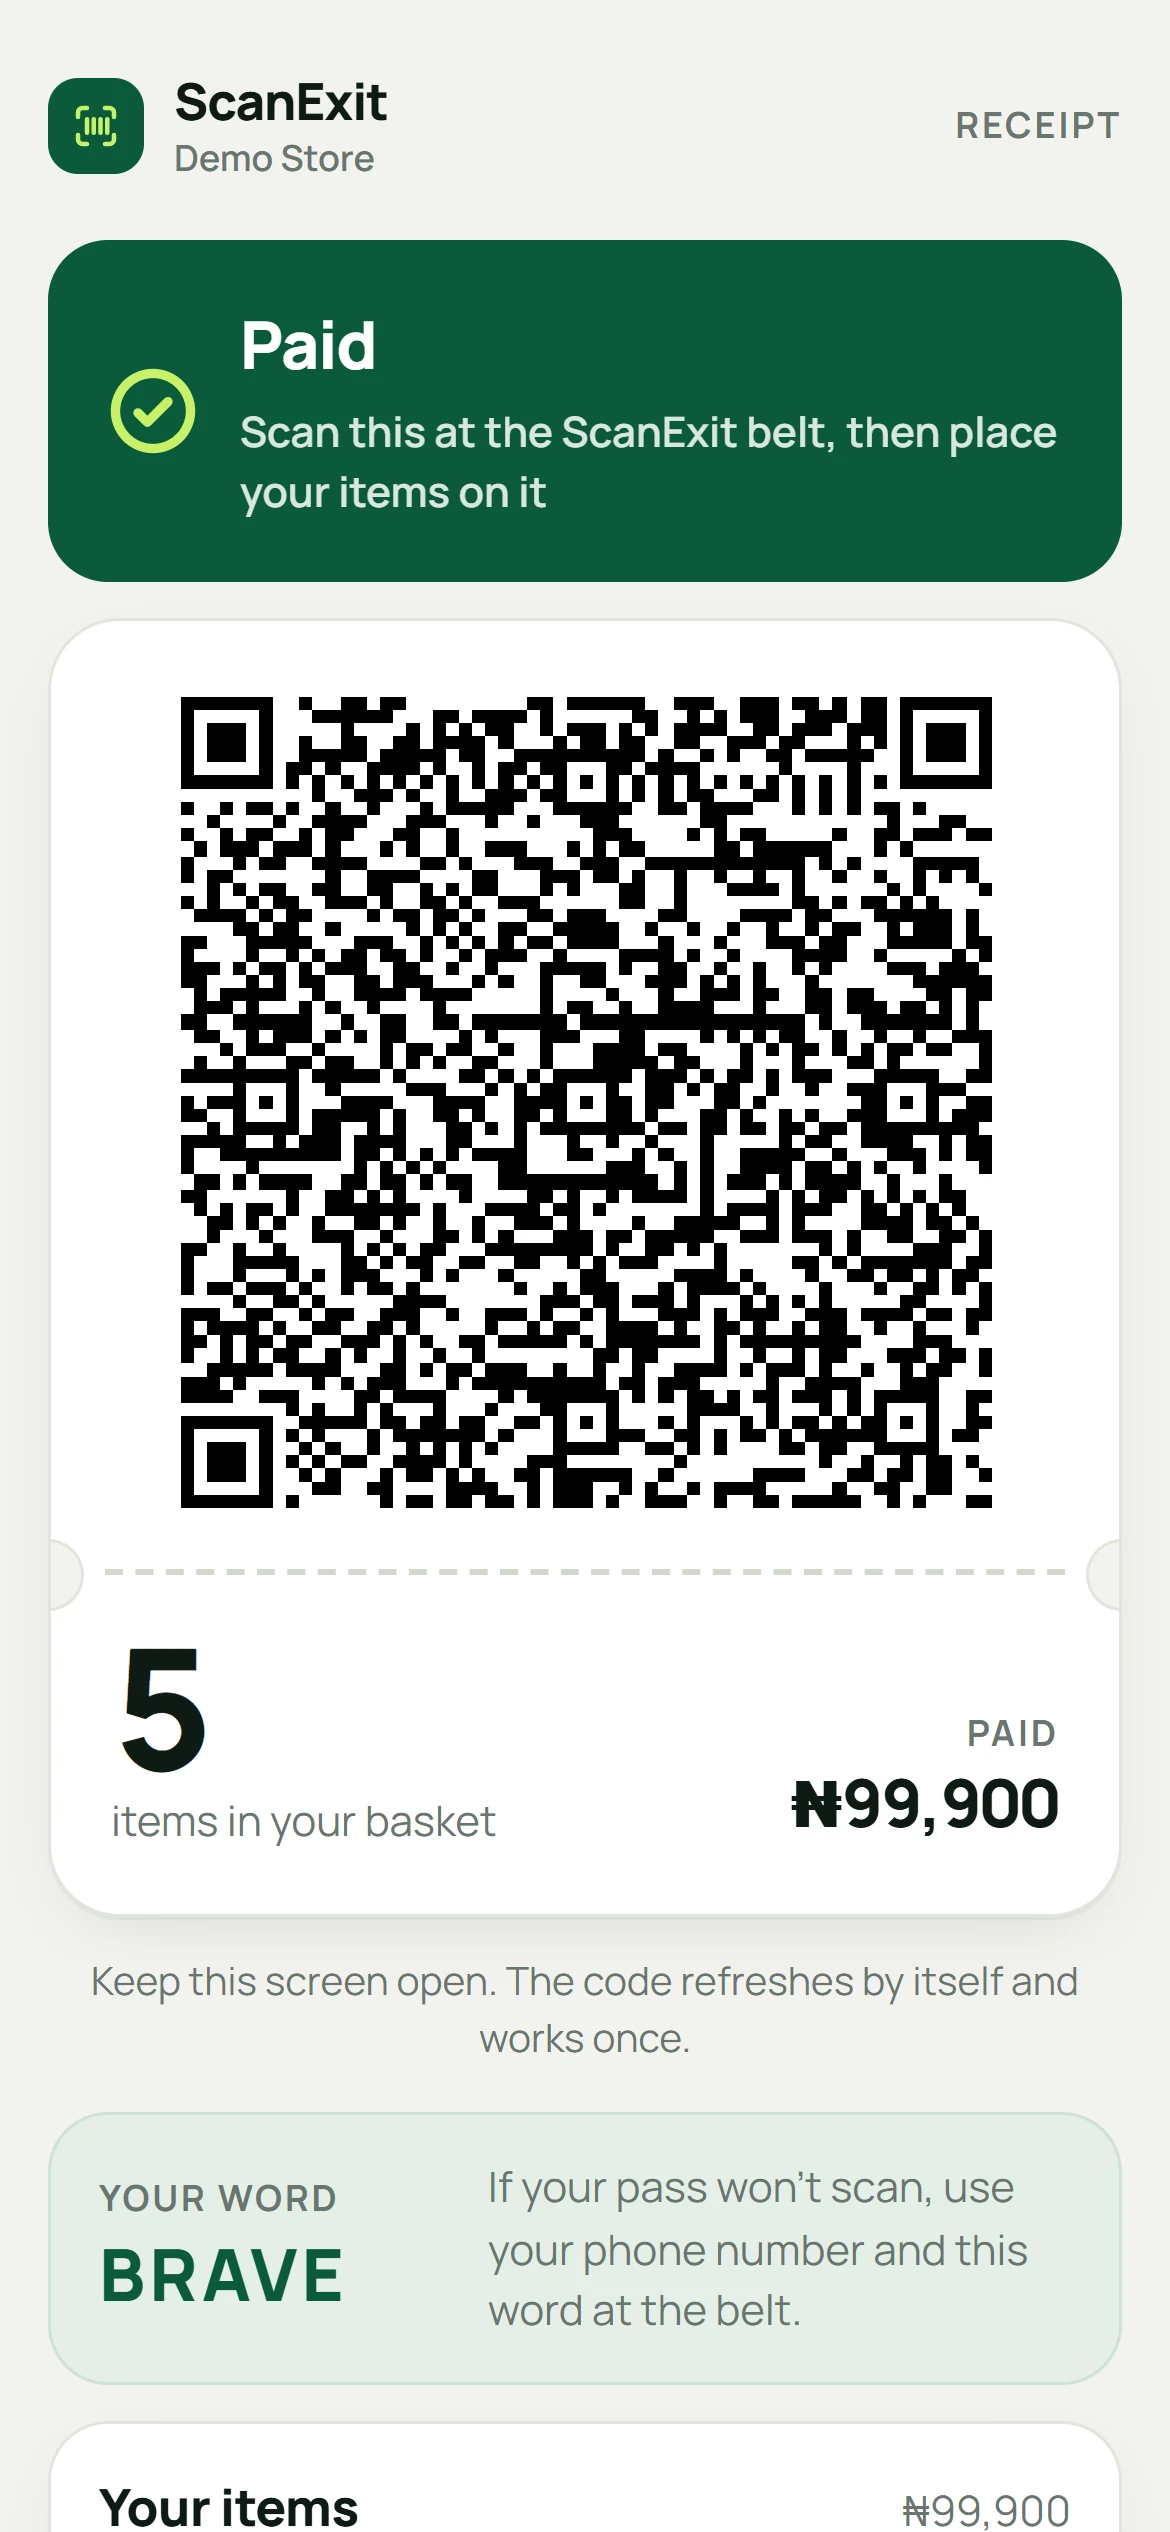
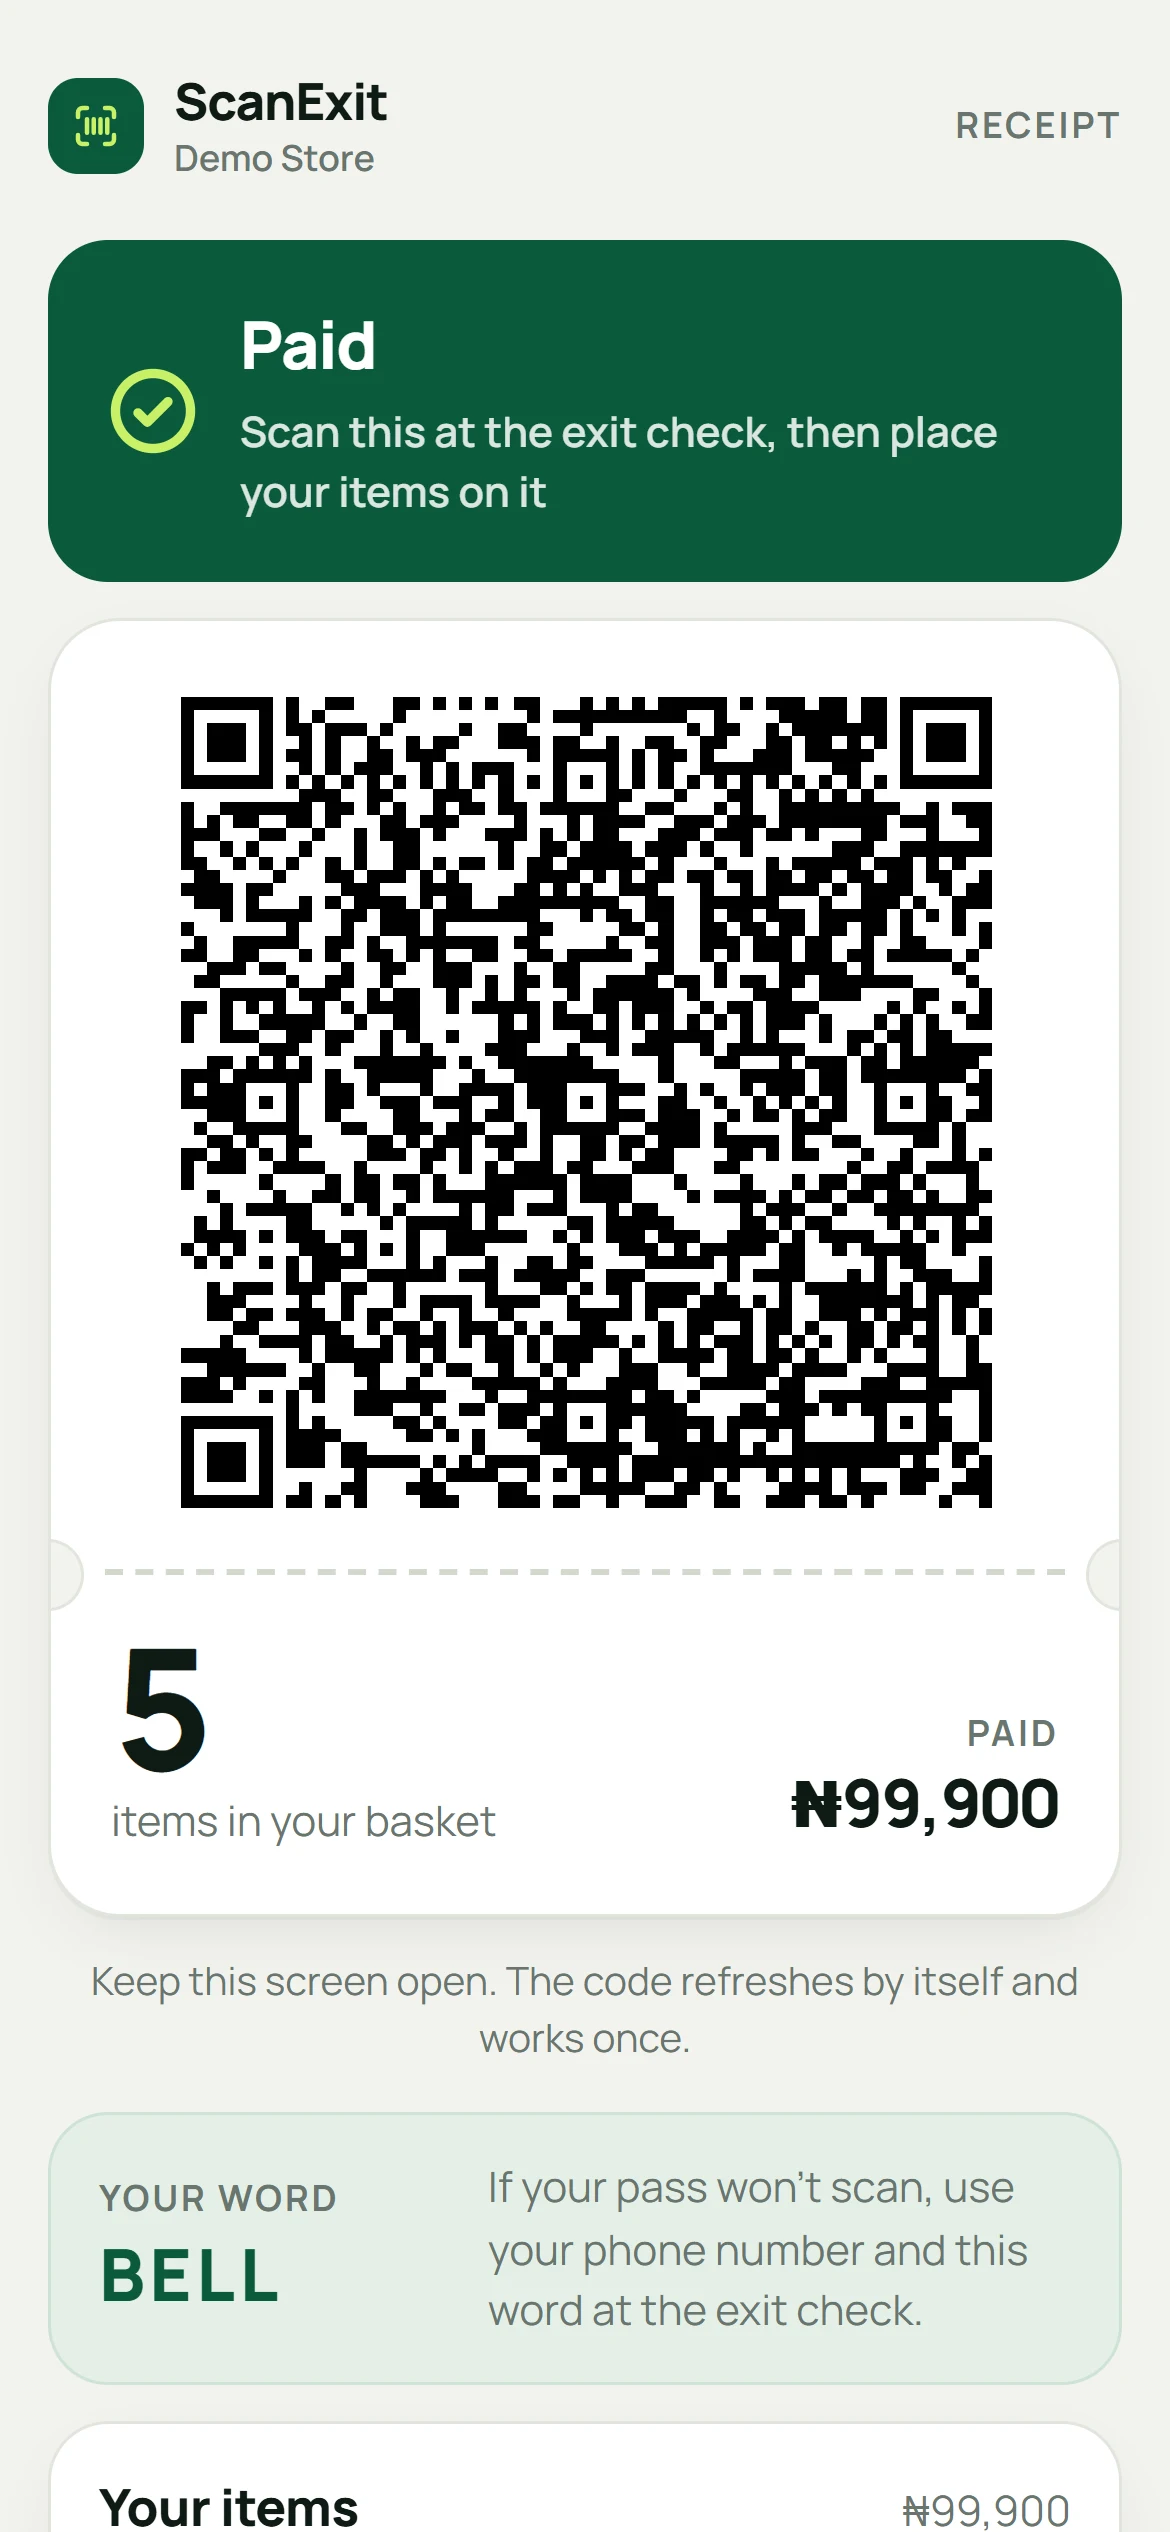
Site: fresh app screenshots (new camera basket, pass, exit check screen) and preview image; receipt says 'exit check'

diff --git a/site/index.html b/site/index.html
@@ -11,14 +11,14 @@
 <meta property="og:type" content="website">
 <meta property="og:url" content="https://scanexit.com/">
 <meta property="og:site_name" content="ScanExit">
-<meta property="og:image" content="https://scanexit.com/assets/og-v4.png">
+<meta property="og:image" content="https://scanexit.com/assets/og-v5.png">
 <meta property="og:image:width" content="1200">
 <meta property="og:image:height" content="630">
 <meta property="og:image:alt" content="ScanExit: scan, pay on your phone, less queues">
 <meta name="twitter:card" content="summary_large_image">
 <meta name="twitter:title" content="ScanExit">
 <meta name="twitter:description" content="Shoppers scan and pay on their phone, then walk out after a quick check. Built for supermarkets.">
-<meta name="twitter:image" content="https://scanexit.com/assets/og-v4.png">
+<meta name="twitter:image" content="https://scanexit.com/assets/og-v5.png">
 <link rel="canonical" href="https://scanexit.com/">
 <script type="application/ld+json">
 {

diff --git a/src/app/receipt/page.tsx b/src/app/receipt/page.tsx
@@ -103,7 +103,7 @@ export default function Receipt() {
           {cart.verifyWord && (
             <div className="word-card">
               <div><div className="eyebrow">Your word</div><div className="word">{cart.verifyWord}</div></div>
-              <div className="muted">If your pass won&apos;t scan, use your phone number and this word at the belt.</div>
+              <div className="muted">If your pass won&apos;t scan, use your phone number and this word at the exit check.</div>
             </div>
           )}
         </>
